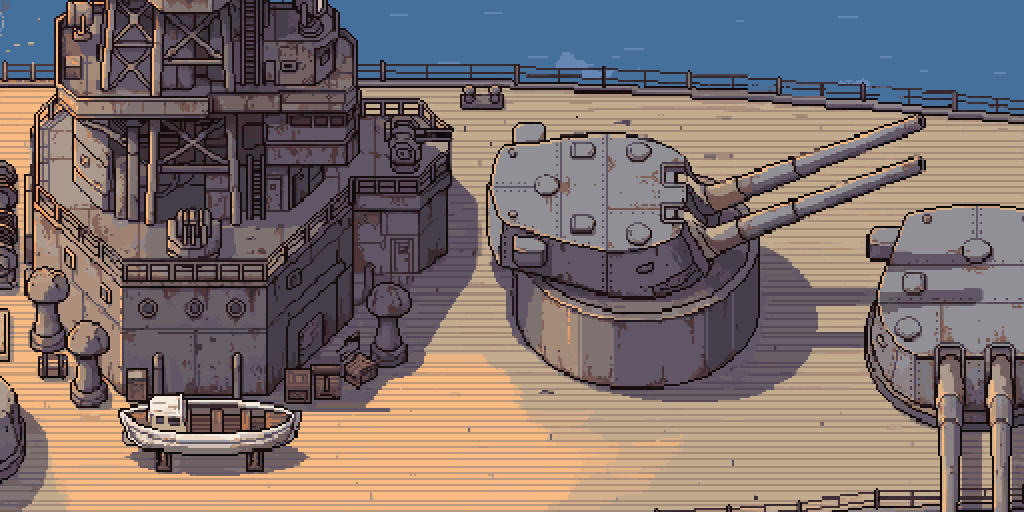
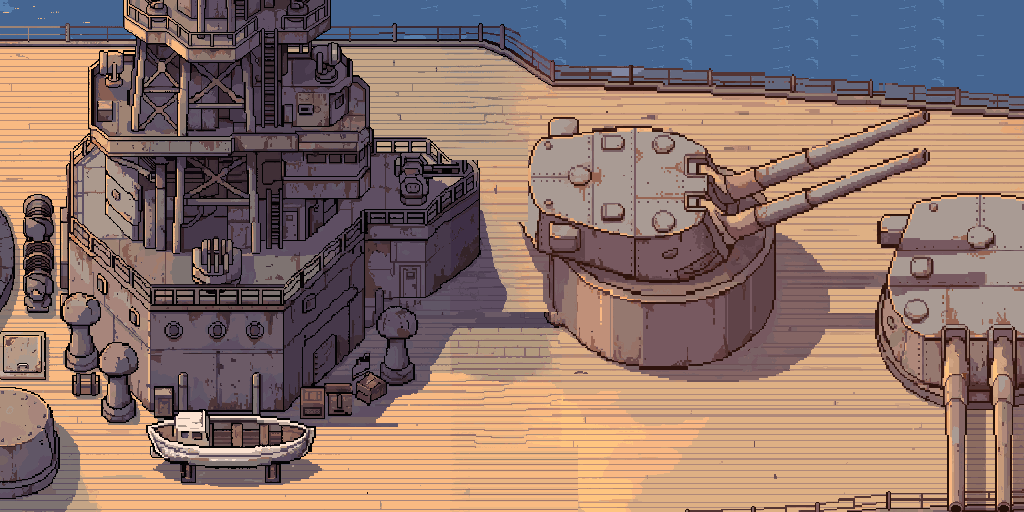
公開版を更新(長門の C 甲板を原寸の第 2 版に、本・柵・1 番砲塔の前、版 497)
Claude-Session: https://claude.ai/code/session_01ERearNMH13RiEPk9e2B5D2

diff --git a/field/index.html b/field/index.html
@@ -14,9 +14,9 @@
   <link rel="apple-touch-icon" href="./apple-touch-icon.png">
   <meta name="apple-mobile-web-app-title" content="ぼぎだぢ">
   <meta http-equiv="Cache-Control" content="no-cache">
-  <script src="./fresh.js?v=495"></script>
-  <script src="./i18n.js?v=495"></script>
-  <link rel="stylesheet" href="./style.css?v=495">
+  <script src="./fresh.js?v=497"></script>
+  <script src="./i18n.js?v=497"></script>
+  <link rel="stylesheet" href="./style.css?v=497">
 </head>
 <body>
 
@@ -54,36 +54,36 @@
   <button type="button" id="actionBtnT" class="action-btn action-btn-t" aria-label="時計">TIME</button>
 
 
-  <script src="./audio.js?v=495"></script>
-  <script src="./rpg.js?v=495"></script>
-  <script src="./worlds/common.js?v=495"></script>
-  <script src="./worlds/lake.js?v=495"></script>
-  <script src="./worlds/void.js?v=495"></script>
-  <script src="./worlds/haihei.js?v=495"></script>
-  <script src="./worlds/kasumi.js?v=495"></script>
-  <script src="./worlds/banana.js?v=495"></script>
-  <script src="./worlds/suzuki.js?v=495"></script>
-  <script src="./worlds/takarabune.js?v=495"></script>
-  <script src="./worlds/noroi.js?v=495"></script>
-  <script src="./worlds/noroi_diner.js?v=495"></script>
-  <script src="./worlds/noroi_strip.js?v=495"></script>
-  <script src="./worlds/noroi_race.js?v=495"></script>
-  <script src="./worlds/pinball.js?v=495"></script>
-  <script src="./worlds/padre.js?v=495"></script>
-  <script src="./worlds/kinsei.js?v=495"></script>
-  <script src="./worlds/bomber.js?v=495"></script>
-  <script src="./worlds/keiji.js?v=495"></script>
-  <script src="./worlds/nagato.js?v=495"></script>
-  <script src="./worlds/finale.js?v=495"></script>
-  <script src="./worlds/index.js?v=495"></script>
-  <script src="./app/layout.js?v=495"></script>
-  <script src="./app/dialog.js?v=495"></script>
-  <script src="./app/game.js?v=495"></script>
-  <script src="./app/status.js?v=495"></script>
-  <script src="./app/title.js?v=495"></script>
-  <script src="./app/watch.js?v=495"></script>
-  <script src="./app/maroudo.js?v=495"></script>
-  <script src="./app/input.js?v=495"></script>
-  <script src="./app/loop.js?v=495"></script>
+  <script src="./audio.js?v=497"></script>
+  <script src="./rpg.js?v=497"></script>
+  <script src="./worlds/common.js?v=497"></script>
+  <script src="./worlds/lake.js?v=497"></script>
+  <script src="./worlds/void.js?v=497"></script>
+  <script src="./worlds/haihei.js?v=497"></script>
+  <script src="./worlds/kasumi.js?v=497"></script>
+  <script src="./worlds/banana.js?v=497"></script>
+  <script src="./worlds/suzuki.js?v=497"></script>
+  <script src="./worlds/takarabune.js?v=497"></script>
+  <script src="./worlds/noroi.js?v=497"></script>
+  <script src="./worlds/noroi_diner.js?v=497"></script>
+  <script src="./worlds/noroi_strip.js?v=497"></script>
+  <script src="./worlds/noroi_race.js?v=497"></script>
+  <script src="./worlds/pinball.js?v=497"></script>
+  <script src="./worlds/padre.js?v=497"></script>
+  <script src="./worlds/kinsei.js?v=497"></script>
+  <script src="./worlds/bomber.js?v=497"></script>
+  <script src="./worlds/keiji.js?v=497"></script>
+  <script src="./worlds/nagato.js?v=497"></script>
+  <script src="./worlds/finale.js?v=497"></script>
+  <script src="./worlds/index.js?v=497"></script>
+  <script src="./app/layout.js?v=497"></script>
+  <script src="./app/dialog.js?v=497"></script>
+  <script src="./app/game.js?v=497"></script>
+  <script src="./app/status.js?v=497"></script>
+  <script src="./app/title.js?v=497"></script>
+  <script src="./app/watch.js?v=497"></script>
+  <script src="./app/maroudo.js?v=497"></script>
+  <script src="./app/input.js?v=497"></script>
+  <script src="./app/loop.js?v=497"></script>
 </body>
 </html>

diff --git a/field/worlds/nagato.js b/field/worlds/nagato.js
@@ -1274,12 +1274,12 @@ const NG_MISE = {
 // 戸の前に、砲員の地上ぼぎクルー(D538。ボマーのクルーと同じ形)。はじめは水兵帽をくれ、斉射のあとは返す
 // 甲板を広く歩ける(D573): 北の通り(縄梯子から)、艦橋と 2 番砲塔のあいだ、砲塔の南、東の通り。行けない所はロープとクルーでふさぐ
 const NG_C_WALK = (c, r) =>
-  (r === 3 && c >= 14 && c <= 21) ||
-  (c === 14 && r >= 3 && r <= 12) ||
-  (c === 15 && r >= 9 && r <= 11) ||
-  (r >= 12 && r <= 14 && c >= 9 && c <= 26) ||
-  (r === 15 && c >= 1 && c <= 26) ||
-  (r >= 13 && r <= 14 && c >= 1 && c <= 2) ||
+  (r === 3 && c >= 15 && c <= 21) ||
+  (c === 15 && r >= 3 && r <= 12) || // 艦橋と 2 番砲塔のあいだ(第 2 版の絵で 1 マス東へ D594)
+  (r >= 12 && r <= 14 && c >= 10 && c <= 26) ||
+  (r === 15 && c >= 3 && c <= 26) ||
+  (r >= 13 && r <= 15 && c >= 27 && c <= 28) || // 1 番砲塔の土台と砲身の前まで(作者「一番砲塔のギリギリまで近づきたい」)
+  (r >= 13 && r <= 14 && c === 3) ||
   (c >= 24 && c <= 26 && r >= 8 && r <= 11);
 // ロープの柵: 真鍮の支柱(ng_post)のあいだに、たるんだロープ。y は支柱の足もと(きーと前後を比べる)
 const ngRopeLine = (id, pts, solid) => {
@@ -1345,12 +1345,12 @@ const NG_KANSEN = {
   },
   spawns: {
     ladder: { x: 556, y: 3.5 * T, facing: "south" }, // 縄梯子をのぼってきた所
-    door: { x: 15.0 * T, y: 12.5 * T, facing: "south" }, // 斉射のあと、戸から出てきた所
+    door: { x: 15.5 * T, y: 12.5 * T, facing: "south" }, // 斉射のあと、戸から出てきた所
   },
   objects: [
     {
       id: "door",
-      x: 15.5 * T,
+      x: 16.2 * T,
       y: 9.6 * T,
       w: 1,
       h: 1,
@@ -1418,10 +1418,8 @@ NG_KANSEN.objects.push(
       api.warp("kojo", "ride");
     },
   },
-  // 係船柱(背景の絵)。上を歩かない
-  { id: "bitt", x: 481, y: 100, w: 1, h: 1, solid: { w: 40, h: 12, dy: -2 }, draw() {} },
-  ngRopeLine("ropeE", [[768, 250], [812, 250], [858, 250]], false), // 東の通りの奥(砲身の下へ行かない)
-  ngRopeLine("ropeS", [16, 106, 196, 286, 376, 466, 556, 646, 736, 826].map((x) => [x, 508]), true), // 南のはし
+  ngRopeLine("ropeE", [[790, 272], [823, 272], [856, 272]], true), // 東の通りの奥。2 つの砲塔のすき間に(砲身の下へ行かない)
+  ngRopeLine("ropeS", [16, 106, 196, 286, 376, 466, 556, 646, 736, 826, 916].map((x) => [x, 508]), true), // 南のはし
   ngCrewBlock("crewN", "crew_wagtail", 22.4 * T, 3.7 * T), // 北の通りの奥
-  ngCrewBlock("crewW", "crew_rooster", 0.7 * T, 14.4 * T), // 西のはし(艦尾)
+  ngCrewBlock("crewW", "crew_rooster", 2.7 * T, 14.4 * T), // 西のはし(艦尾)
 );

diff --git a/field/worlds/index.js b/field/worlds/index.js
@@ -414,7 +414,7 @@ const DAZAI_BOOKS = [
   { w: "kinsei", map: "sancho", x: 6.95 * T, y: 3.75 * T, title: "斜陽" }, // 気象台の色あせた太陽のシールの下(D392)
   { w: "bomber", map: "kichi", x: 3.6 * T, y: 6.5 * T, title: "トカトントン" },
   { w: "keiji", map: "studio", x: 10.5 * T, y: 11.6 * T, title: "もの思う葦" }, // 空の客席の、通路ぎわのいすの上(D529)
-  { w: "nagato", map: "kansen", x: 1.5 * T, y: 13.6 * T, title: "十二月八日" }, // 甲板の西のはし(D583。開戦の電文は旗艦の長門から出た)
+  { w: "nagato", map: "kansen", x: 3.5 * T, y: 13.8 * T, title: "十二月八日" }, // 甲板の西のはし(D583。開戦の電文は旗艦の長門から出た。第 2 版の絵で丸い台の手前へ)
 ];
 const kBook = (b) => ({
   id: "dazai",

diff --git a/field/fresh.js b/field/fresh.js
@@ -1,7 +1,7 @@
 // 古い版が残らないように(ホーム画面に置いたとき、ページそのものが手元に残る)。index.html の中から、このファイルに出した(D301。ページの中に直接書いた script を禁止するため)
 // version.json(毎回取りにいく)の版がこのページとちがえば、URL を変えて読みなおす。版を上げるときは、下の数と version.json と ?v= をそろえる
 (function () {
-  var V = "495";
+  var V = "497";
   var key = "bogidachi.reloadedFor";
   function check(onlyIfSafe) {
     fetch("./version.json?t=" + Date.now(), { cache: "no-store" })
